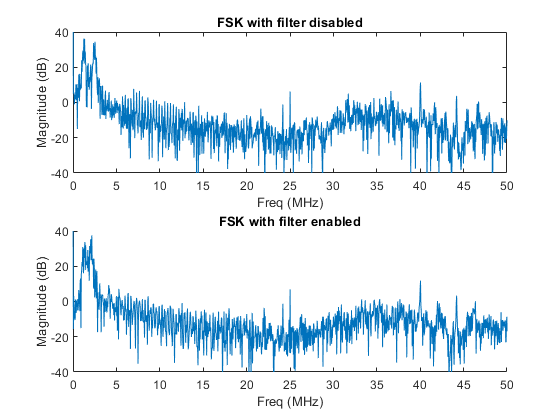
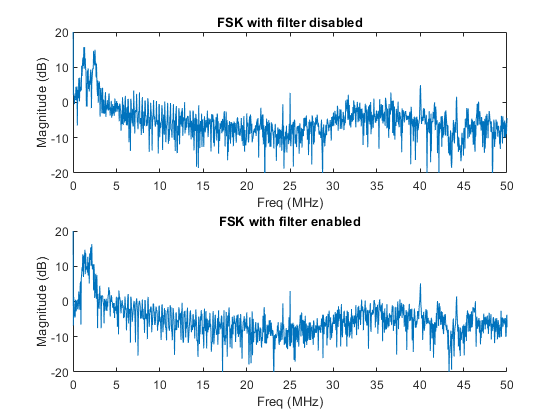
sd

diff --git a/transceiver/transceiver v7 (dac working)/transmitter/measurements/fft_analysis.m b/transceiver/transceiver v7 (dac working)/transmitter/measurements/fft_analysis.m
@@ -41,17 +41,17 @@ legend('channel 1', 'channel 2')
 
 figure(3); clf;
 subplot(2,1,1);
-plot(fWithout/1e6,10*log(abs(FFTWithoutFilter)))
-xlim([0 50])
-ylim([-40 40])
+plot((fWithout/1e6),10*log10(abs(FFTWithoutFilter)))
+xlim([0 (50)])
+ylim([-20 20])
 xlabel('Freq (MHz)')
 ylabel('Magnitude (dB)')
 title('FSK with filter disabled')
 subplot(2,1,2);
 hold on
-plot(fWith/1e6,10*log(abs(FFTWithFilter)))
-xlim([0 50])
-ylim([-40 40])
+plot((fWith/1e6),10*log10(abs(FFTWithFilter)))
+xlim([0 (50)])
+ylim([-20 20])
 xlabel('Freq (MHz)')
 ylabel('Magnitude (dB)')
 title('FSK with filter enabled')
